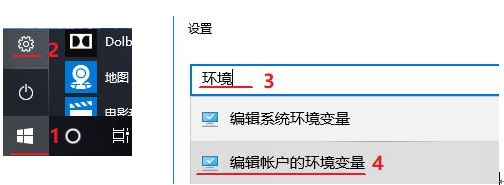
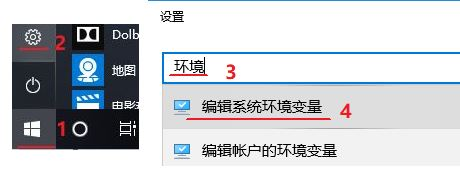
update guide

diff --git a/guide/BuildingSoftwareEnvironment.md b/guide/BuildingSoftwareEnvironment.md
@@ -240,7 +240,7 @@ Goto MinGW mother site at：https://sourceforge.net/projects/mingw-w64/files/?so
 
    For Windows 10: 
 
-   Start  "Windows Start Menu" ⇒ Open "Settings" ⇒ Search for "environment" ⇒ Select "Edit environment variables for your account"*.
+   Start  "Windows Start Menu" ⇒ Open "Settings" ⇒ Search for "environment" ⇒ Select "Edit System environment variables".
 
   ![windows-setting-environment](./img/windows-setting-environment.jpg)
  
